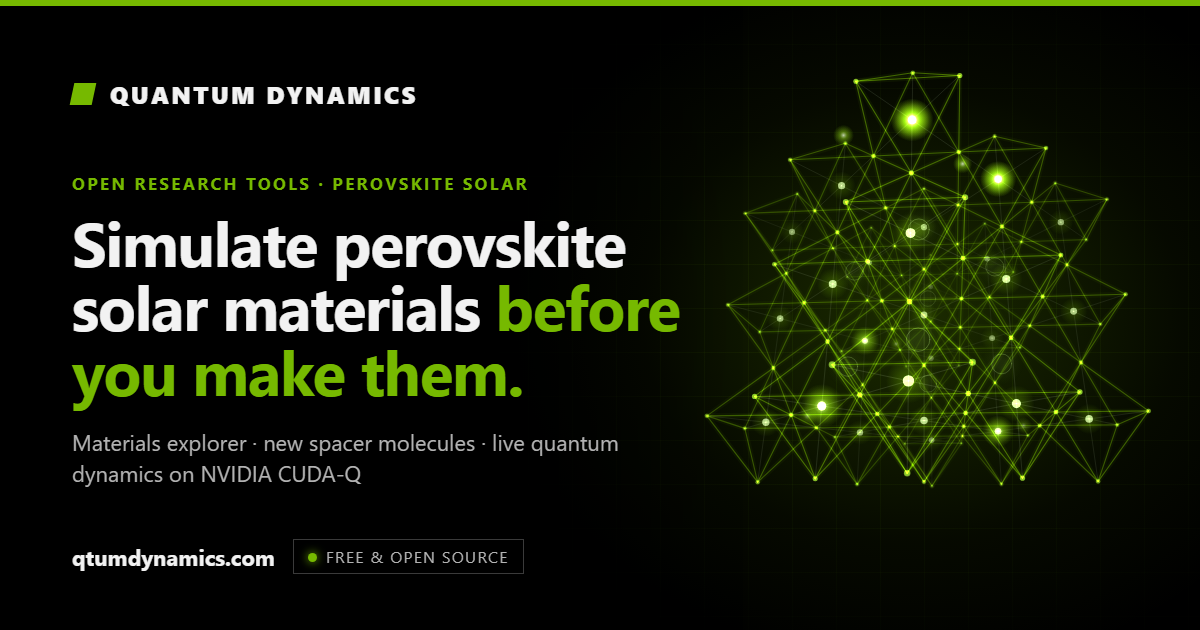
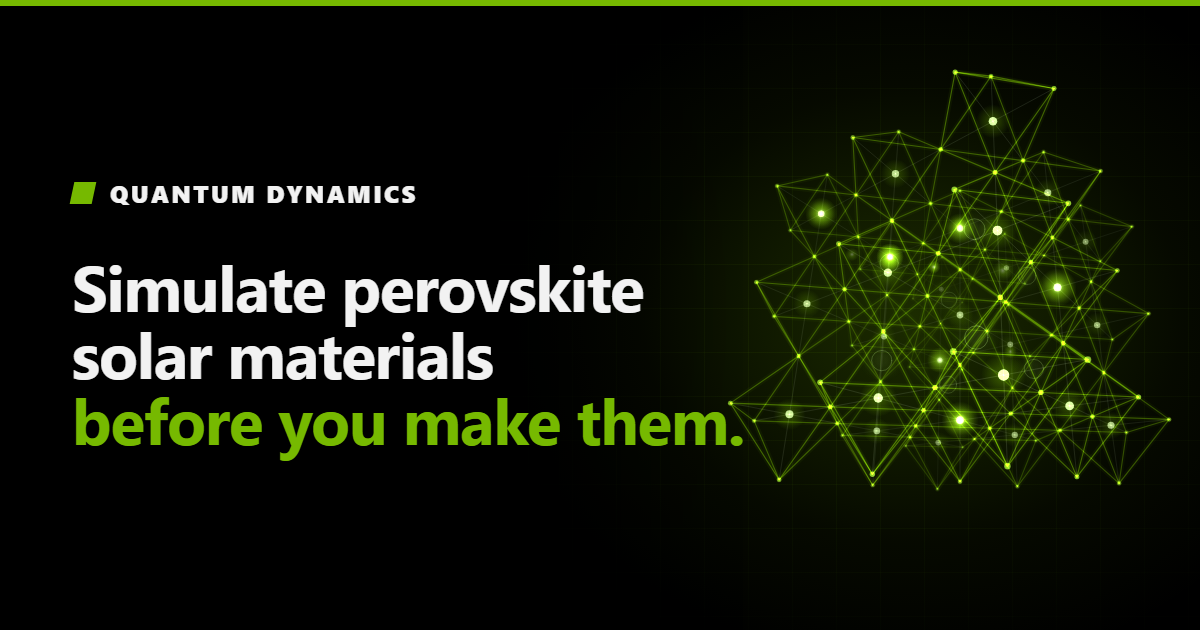
Simplify the social card: brand, headline and lattice only

Changed region(s): [[0.0617, 0.0905, 0.9867, 0.7841], [0.0617, 0.1206, 0.3392, 0.181], [0.0617, 0.8746, 0.4317, 0.9048]]

diff --git a/landing.html b/landing.html
@@ -17,7 +17,7 @@
 <meta property="og:title" content="Quantum Dynamics: perovskite solar materials simulation tools">
 <meta property="og:description" content="Free, open-source perovskite solar tools: rank purchasable compositions against 42,000 published devices, design new spacer molecules and simulate with CUDA-Q.">
 <meta property="og:url" content="https://qtumdynamics.com/">
-<meta property="og:image" content="https://qtumdynamics.com/og.png">
+<meta property="og:image" content="https://qtumdynamics.com/og.png?v=2">
 <meta property="og:image:width" content="1200">
 <meta property="og:image:height" content="630">
 <meta property="og:image:type" content="image/png">
@@ -26,7 +26,7 @@
 <meta name="twitter:card" content="summary_large_image">
 <meta name="twitter:title" content="Quantum Dynamics: perovskite solar materials simulation tools">
 <meta name="twitter:description" content="Free, open-source perovskite solar tools: rank purchasable compositions against 42,000 published devices, design new spacer molecules and simulate with CUDA-Q.">
-<meta name="twitter:image" content="https://qtumdynamics.com/og.png">
+<meta name="twitter:image" content="https://qtumdynamics.com/og.png?v=2">
 <script type="application/ld+json">{"@context": "https://schema.org", "@graph": [{"@type": "Organization", "@id": "https://qtumdynamics.com/#org", "name": "Quantum Dynamics", "url": "https://qtumdynamics.com/", "logo": "https://qtumdynamics.com/icon-512.png", "sameAs": ["https://github.com/cintelis/quantum-dynamics"]}, {"@type": "WebSite", "@id": "https://qtumdynamics.com/#website", "name": "Quantum Dynamics", "url": "https://qtumdynamics.com/", "description": "Free, open-source perovskite solar tools: rank purchasable compositions against 42,000 published devices, design new spacer molecules and simulate with CUDA-Q.", "publisher": {"@id": "https://qtumdynamics.com/#org"}, "inLanguage": "en"}, {"@type": "WebApplication", "name": "Quantum Dynamics", "url": "https://qtumdynamics.com/", "applicationCategory": "ScientificApplication", "operatingSystem": "Any (web browser)", "browserRequirements": "Requires JavaScript", "description": "Screening tools for perovskite solar materials: a composition explorer, generated spacer molecules and live quantum-dynamics simulations built on NVIDIA CUDA-Q.", "offers": {"@type": "Offer", "price": "0", "priceCurrency": "USD"}, "isAccessibleForFree": true, "publisher": {"@id": "https://qtumdynamics.com/#org"}, "featureList": ["Perovskite composition explorer", "Generated spacer molecules for layered perovskites", "Live quantum dynamics (CUDA-Q)", "100-spin chain simulation"]}, {"@type": "SoftwareSourceCode", "name": "quantum-dynamics", "codeRepository": "https://github.com/cintelis/quantum-dynamics", "license": "https://www.apache.org/licenses/LICENSE-2.0", "programmingLanguage": ["Python", "JavaScript"], "author": {"@id": "https://qtumdynamics.com/#org"}}]}</script>
 <script>
   // old dashboard links (/#model=…, /#view=…) now live at /dashboard

diff --git a/dashboard.html b/dashboard.html
@@ -17,7 +17,7 @@
 <meta property="og:title" content="Live quantum dynamics dashboard · Quantum Dynamics">
 <meta property="og:description" content="Simulate energy funnelling in layered perovskite films, qubits and spin chains with NVIDIA CUDA-Q, and watch every time step stream in live.">
 <meta property="og:url" content="https://qtumdynamics.com/dashboard">
-<meta property="og:image" content="https://qtumdynamics.com/og.png">
+<meta property="og:image" content="https://qtumdynamics.com/og.png?v=2">
 <meta property="og:image:width" content="1200">
 <meta property="og:image:height" content="630">
 <meta property="og:image:type" content="image/png">
@@ -26,7 +26,7 @@
 <meta name="twitter:card" content="summary_large_image">
 <meta name="twitter:title" content="Live quantum dynamics dashboard · Quantum Dynamics">
 <meta name="twitter:description" content="Simulate energy funnelling in layered perovskite films, qubits and spin chains with NVIDIA CUDA-Q, and watch every time step stream in live.">
-<meta name="twitter:image" content="https://qtumdynamics.com/og.png">
+<meta name="twitter:image" content="https://qtumdynamics.com/og.png?v=2">
 <style>
 /* NVIDIA-inspired dark theme. Brand green on chrome; a validated darker green for data lines. */
 .viz-root {

diff --git a/molecules.html b/molecules.html
@@ -17,7 +17,7 @@
 <meta property="og:title" content="New spacer molecules for layered perovskites · Quantum Dynamics">
 <meta property="og:description" content="167 generated organic spacer cations for 2D and quasi-2D perovskites, scored on design rules, proven analogues, energy funnelling and ease of synthesis.">
 <meta property="og:url" content="https://qtumdynamics.com/molecules">
-<meta property="og:image" content="https://qtumdynamics.com/og.png">
+<meta property="og:image" content="https://qtumdynamics.com/og.png?v=2">
 <meta property="og:image:width" content="1200">
 <meta property="og:image:height" content="630">
 <meta property="og:image:type" content="image/png">
@@ -26,7 +26,7 @@
 <meta name="twitter:card" content="summary_large_image">
 <meta name="twitter:title" content="New spacer molecules for layered perovskites · Quantum Dynamics">
 <meta name="twitter:description" content="167 generated organic spacer cations for 2D and quasi-2D perovskites, scored on design rules, proven analogues, energy funnelling and ease of synthesis.">
-<meta name="twitter:image" content="https://qtumdynamics.com/og.png">
+<meta name="twitter:image" content="https://qtumdynamics.com/og.png?v=2">
 <style>
 .viz-root {
   color-scheme: dark;

diff --git a/explorer.html b/explorer.html
@@ -17,7 +17,7 @@
 <meta property="og:title" content="Perovskite composition explorer · Quantum Dynamics">
 <meta property="og:description" content="1,250 perovskite compositions you can make from purchasable salts, ranked by band-gap fit, evidence from 42,000 published devices, design rules and novelty.">
 <meta property="og:url" content="https://qtumdynamics.com/explorer">
-<meta property="og:image" content="https://qtumdynamics.com/og.png">
+<meta property="og:image" content="https://qtumdynamics.com/og.png?v=2">
 <meta property="og:image:width" content="1200">
 <meta property="og:image:height" content="630">
 <meta property="og:image:type" content="image/png">
@@ -26,7 +26,7 @@
 <meta name="twitter:card" content="summary_large_image">
 <meta name="twitter:title" content="Perovskite composition explorer · Quantum Dynamics">
 <meta name="twitter:description" content="1,250 perovskite compositions you can make from purchasable salts, ranked by band-gap fit, evidence from 42,000 published devices, design rules and novelty.">
-<meta name="twitter:image" content="https://qtumdynamics.com/og.png">
+<meta name="twitter:image" content="https://qtumdynamics.com/og.png?v=2">
 <style>
 .viz-root {
   color-scheme: dark;

diff --git a/chain.html b/chain.html
@@ -17,7 +17,7 @@
 <meta property="og:title" content="100-spin quantum chain simulation · Quantum Dynamics">
 <meta property="og:description" content="A 100-spin quantum spin chain simulated at scale, with a preview of how today&#x27;s quantum hardware noise would change the result.">
 <meta property="og:url" content="https://qtumdynamics.com/chain">
-<meta property="og:image" content="https://qtumdynamics.com/og.png">
+<meta property="og:image" content="https://qtumdynamics.com/og.png?v=2">
 <meta property="og:image:width" content="1200">
 <meta property="og:image:height" content="630">
 <meta property="og:image:type" content="image/png">
@@ -26,7 +26,7 @@
 <meta name="twitter:card" content="summary_large_image">
 <meta name="twitter:title" content="100-spin quantum chain simulation · Quantum Dynamics">
 <meta name="twitter:description" content="A 100-spin quantum spin chain simulated at scale, with a preview of how today&#x27;s quantum hardware noise would change the result.">
-<meta name="twitter:image" content="https://qtumdynamics.com/og.png">
+<meta name="twitter:image" content="https://qtumdynamics.com/og.png?v=2">
 <style>
 .viz-root {
   color-scheme: dark;
